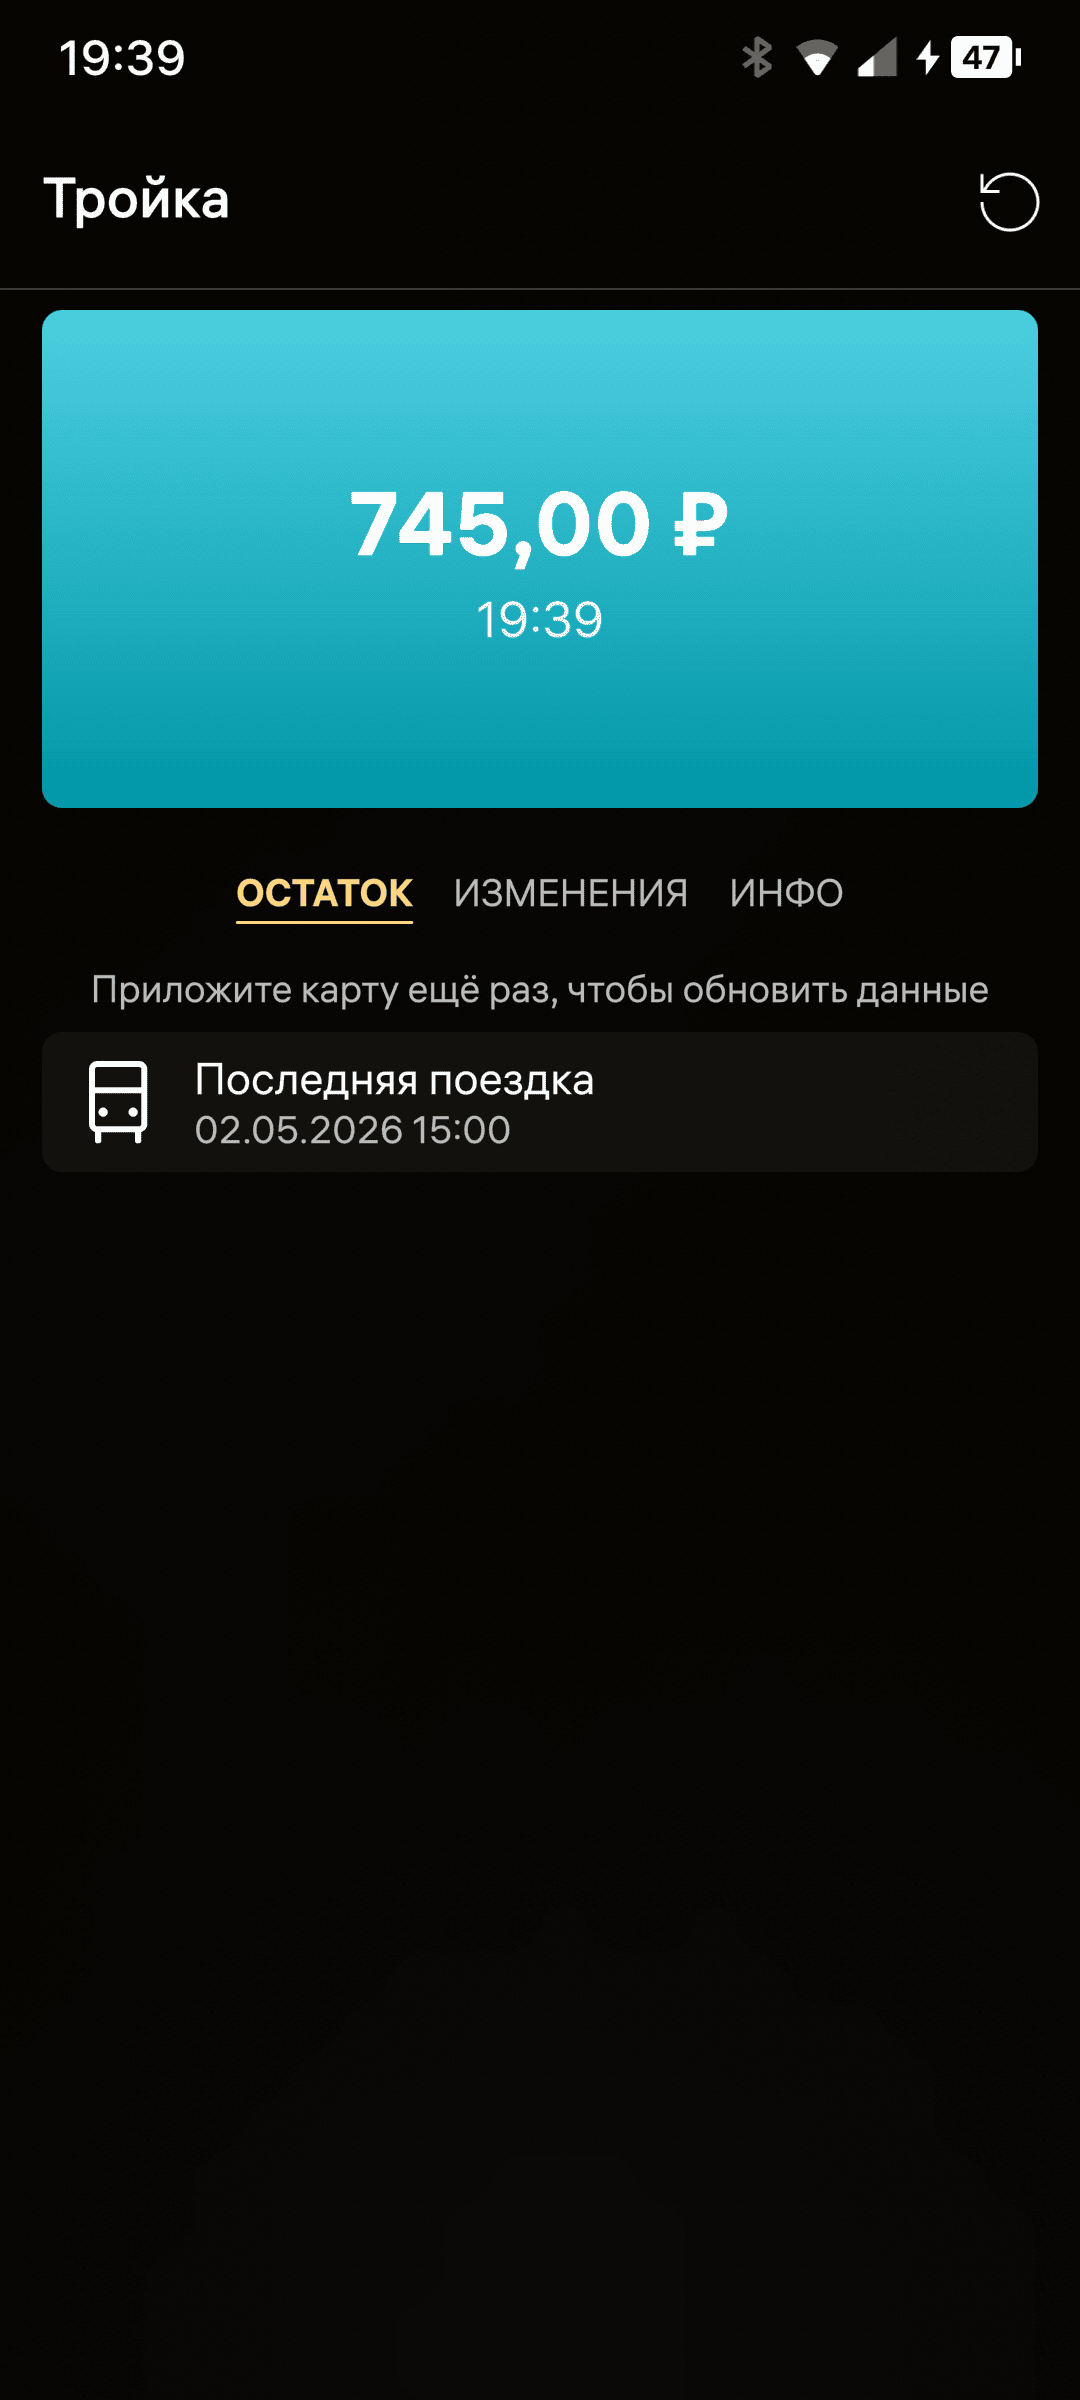
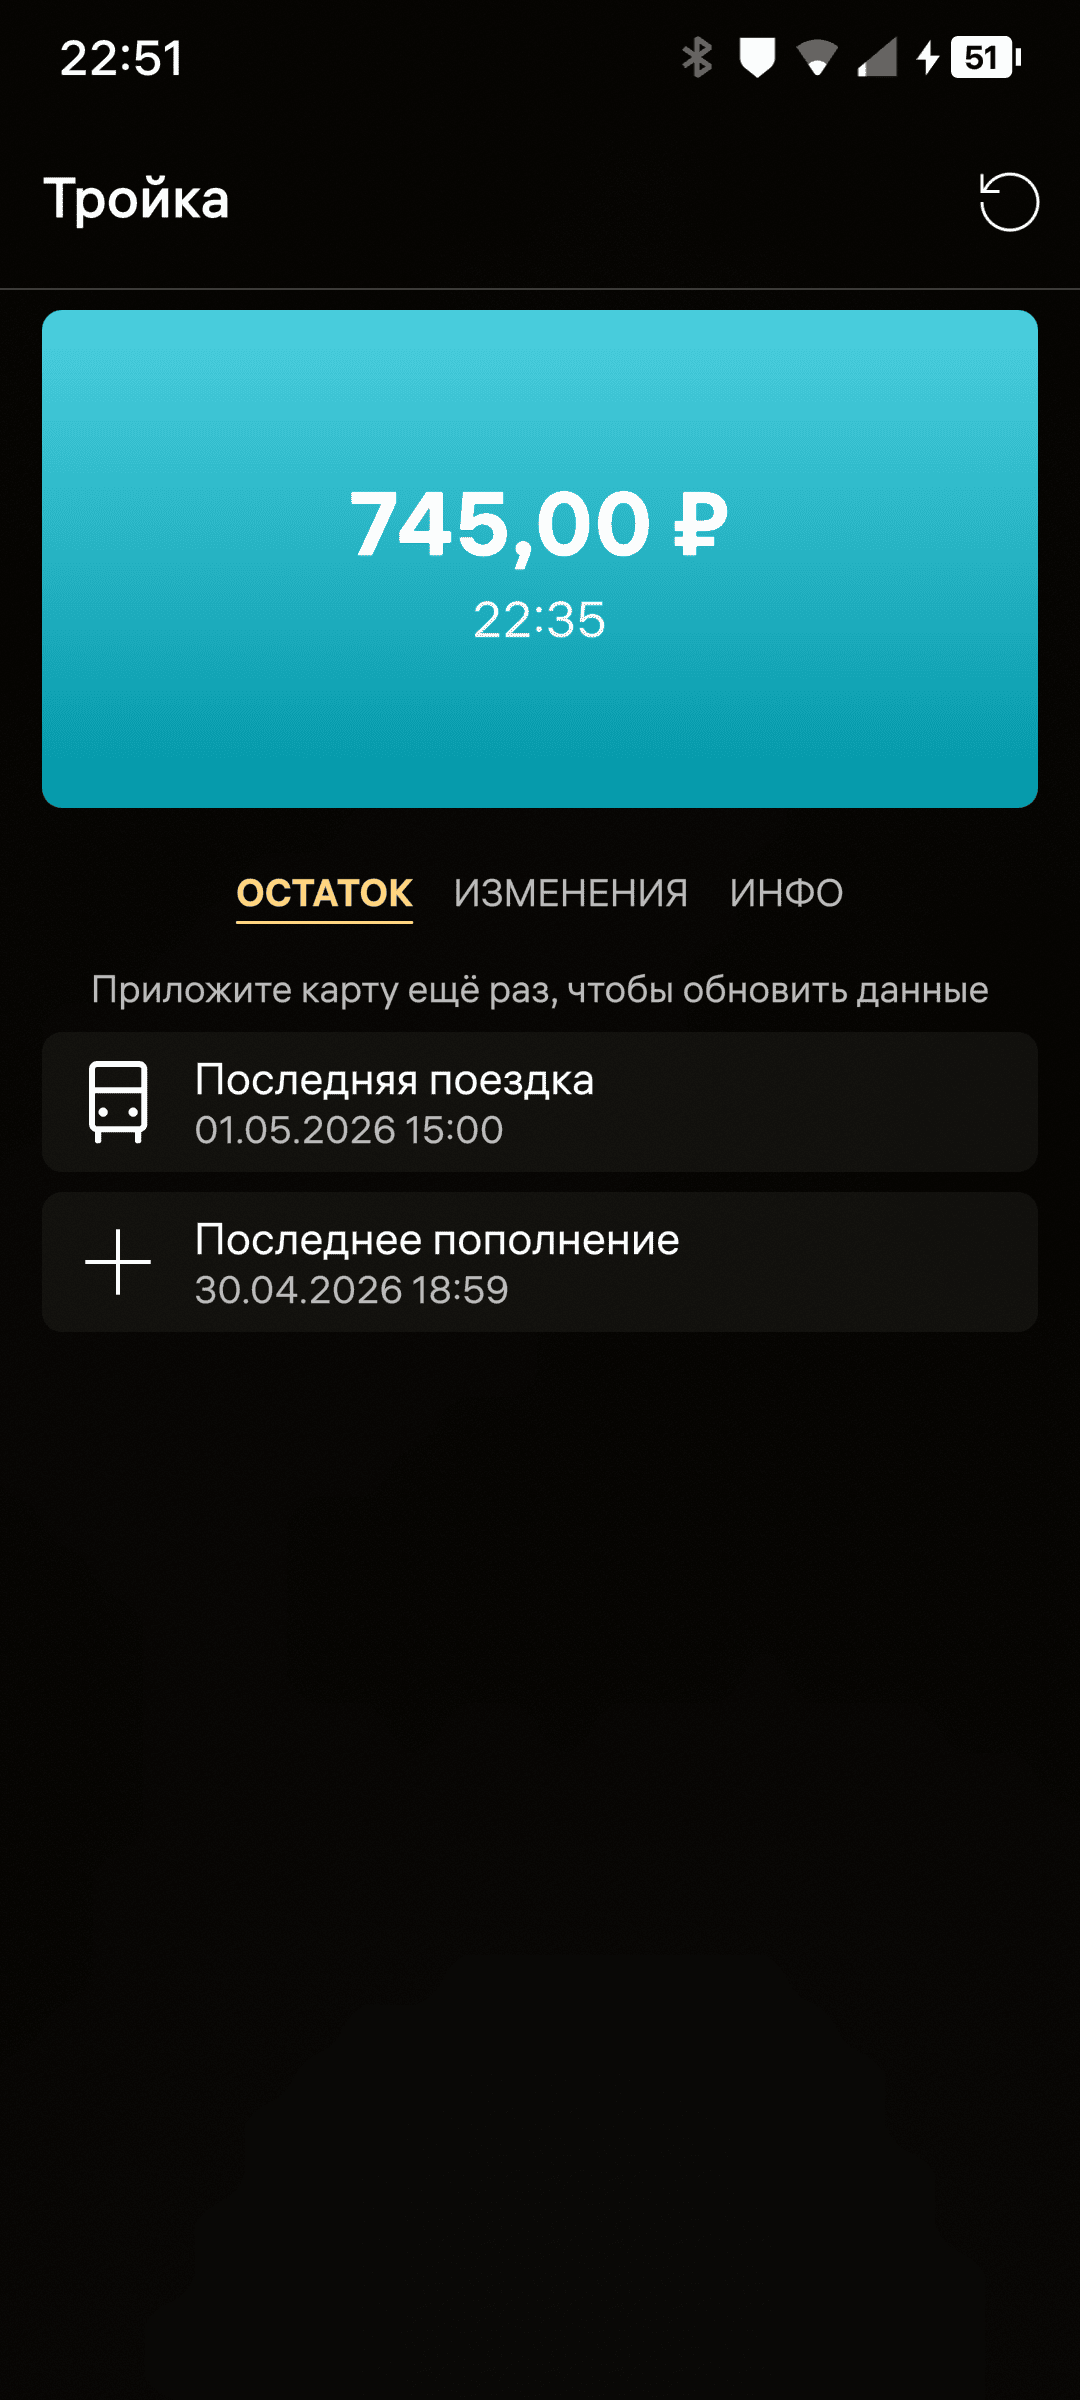
Скриншоты Тройки 1.4.4, порядок как в RuStore
- app-troika.png — баланс, последняя поездка и пополнение
- app-troika-info.png — Инфо: срок действия, счётчики
- README: порядок скриншотов как для магазина, пункт про Тройку
  дополнен билетными записями и полями E3/E5

diff --git a/README.md b/README.md
@@ -15,7 +15,9 @@ NFC-стека (nfcd).
   <img src="screenshots/app-pass.png" width="180"
        alt="Подорожник: проездной, остаток дней" />
   <img src="screenshots/app-troika.png" width="180"
-       alt="Тройка: баланс" />
+       alt="Тройка: баланс, поездка и пополнение" />
+  <img src="screenshots/app-troika-info.png" width="180"
+       alt="Тройка: информация о карте" />
   <img src="screenshots/app-history.png" width="180"
        alt="История чтений" />
   <img src="screenshots/app-info.png" width="180"
@@ -64,7 +66,10 @@ NFC-стека (nfcd).
    (см. `app/src/podorozhnik.cpp`).
 6. «Тройка»: сектор 8, блоки 32–34 — 48-байтовая транспортная запись,
    поля адресуются битами (MSB first). Разбираются layout'ы кошелька
-   E1/E3/E5: номер карты (биты 20–51), баланс, последняя поездка
+   E1/E3/E5: номер карты (биты 20–51), баланс; у E3/E5 — последняя
+   поездка и срок действия карты, у E5 — ещё последнее пополнение
+   и счётчики. Билетные записи (проездные) — сектора 7, 4 и 1,
+   layout'ы 2/A/D/E2: остаток поездок и срок действия
    (см. `app/src/troika.cpp`). На ST-стеке блоки приходят урезанными
    до 15 байт — дополняются нулевым байтом, чтобы не съехали смещения.
 
